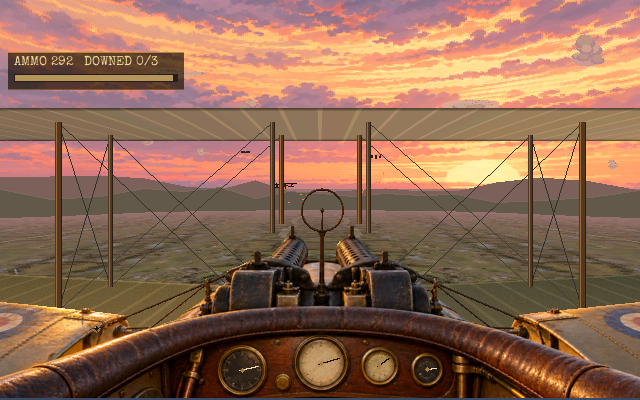
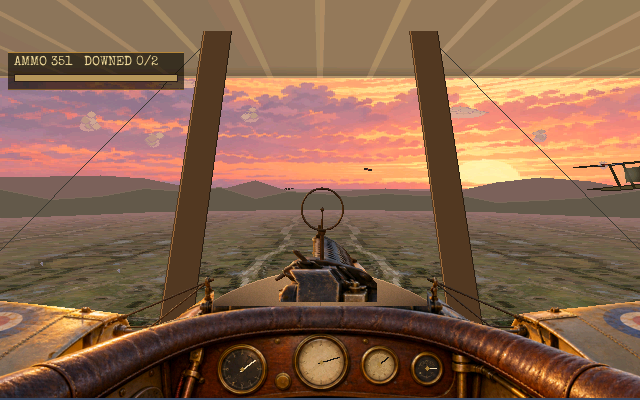
Point the README at 0.2.0 RC3 and describe what it adds
The release line links RC3; the features list covers the pilot's-eye
cockpit, the guns and machines of each year, the top-down raids, the
offence ladder, the bomb blast, the morning paper, the picture house and
the period typefaces; the controls mention the 1914 rifle and revolver,
jam clearing and turning for home; the credits point to the film and
font sources.  The cockpit screenshot is the new view from the pilot's
seat, captured on the Amiga.

diff --git a/README.md b/README.md
@@ -9,22 +9,37 @@ It grew out of the Sopwith porting work in
 [amigasdlsopwith](https://github.com/DalsinAI/amigasdlsopwith), but it is a new
 game: no SDL Sopwith code is used.
 
-Current release: **0.2.0 RC2**, a release candidate. Download it from
-[the v0.2.0-rc2 release](https://github.com/DalsinAI/canvasskies/releases/tag/v0.2.0-rc2).
-New since the alpha: a cinematic cockpit view, open-sky dogfights, a pilot's
-career with medals, the story as a war diary, the morning paper and Book of
-Press Cuttings, the Christmas truce, the airship and Gotha raids, and period
-gramophone records. The earlier alpha is described in
+Current release: **0.2.0 RC3**, a release candidate. Download it from
+[the v0.2.0-rc3 release](https://github.com/DalsinAI/canvasskies/releases/tag/v0.2.0-rc3).
+New in RC3: the cockpit seen from the pilot's seat, machines that change with
+the war, top-down raids on convoys, railways, aerodromes and trench lines,
+civilians and ambulances to spare on pain of court martial, the morning paper
+set like a real one, and a picture house showing real film of the war. The
+earlier alpha is described in
 [docs/ALPHA_RELEASE_NOTES.md](docs/ALPHA_RELEASE_NOTES.md).
 
 ## Features
 
-- Side-on, top-down, first-person dogfight and rear-gunner mission modes
-- Pilot's journal and General Headquarters briefing before every sortie
-- Six-axis dogfight flight model with stalls, damage and crashes
+- Side-on, top-down, cockpit dogfight and rear-gunner sorties
+- The cockpit from the pilot's seat: the top wing overhead, the struts beside
+  the gun, the world banking around the machine
+- Machines that change with the war, ours and theirs: a 1914 two-seater
+  armed with a rifle and revolver, a single-Vickers scout, a twin-gun scout
+  and a late-war scout, against the Fokker monoplane, the Albatros and the
+  late Fokker
+- Top-down raids built from the war's targets: lorry convoys, trains and
+  stations, aerodromes, depots and trench runs, mixed to suit each year
+- Ambulances, villages and our own line to spare: a reprimand, a lost rank,
+  then a court martial that ends the career
+- Bombs that burst too close hurt your own machine
+- Pilot's diary and General Headquarters orders before every sortie, and a
+  career of victories, promotion and medals
+- The morning paper on its tied bundle, quoting real cable news of
+  1914-1918, and the Book of Press Cuttings
+- The picture house behind the lines, showing real film of each year
 - Three-life campaign with field hospital recovery and a graveside memorial
 - Resumable campaign saves
-- Period fonts, painted art and gramophone-style music
+- Period typefaces, painted art and period gramophone records
 - F9 toggles aspect-correct fullscreen
 
 ## Screenshots
@@ -39,7 +54,7 @@ game's own 640x400.
 | ![The morning paper](docs/screenshots/newspaper.png) | ![The picture house](docs/screenshots/picture-house.png) |
 | The morning paper on its bundle | The picture house behind the lines, showing real film of 1916 |
 | ![Cockpit dogfight](docs/screenshots/cockpit-dogfight.png) | ![New machines](docs/screenshots/new-machines.png) |
-| A 1918 patrol from the cockpit | New machines from the aircraft park |
+| A 1916 patrol from the pilot's seat, one Vickers under the sight | New machines from the aircraft park |
 | ![Top-down sortie](docs/screenshots/top-down-sortie.png) | ![Side-on sortie](docs/screenshots/side-on-sortie.png) |
 | A top-down raid on a convoy and its depot | A side-on sortie at dusk |
 | ![Court martial](docs/screenshots/court-martial.png) | |
@@ -75,8 +90,8 @@ the assets the game loads, without the source PNGs.
 | Context | Controls |
 |---|---|
 | Menus | Up/Down select, Enter accepts, Escape returns |
-| Side/top-down | Arrow keys move, X/Z adjust speed, Space fires, B bombs |
-| Pilot dogfight | Left/Right bank, Down pulls up, Up pushes down, X/Z throttle, Space fires |
+| Side/top-down | Arrow keys move, X/Z adjust speed, Space fires (a rifle in 1914), B bombs |
+| Pilot dogfight | Left/Right bank, Down pulls up, Up pushes down, X/Z throttle, Space fires (a revolver in 1914), R clears a jam, H turns for home |
 | Rear gunner | Arrow keys traverse/elevate, Space fires |
 | Display | F9 toggles fullscreen |
 
@@ -91,17 +106,18 @@ the assets the game loads, without the source PNGs.
 ## Licence
 
 Canvas Skies is free software under the
-[GNU General Public License, version 3](LICENSE). Music, font and art
+[GNU General Public License, version 3](LICENSE). Music, font, film and art
 licences are listed below.
 
 ## Credits
 
 Designed, tested and delivered by The AmiCradle Team.
 
-Music, font and art credits are in
+Music, font, film and art credits are in
 [assets/canvas-skies/MUSIC_LICENSE.md](assets/canvas-skies/MUSIC_LICENSE.md),
-[assets/canvas-skies/ART_PROVENANCE.md](assets/canvas-skies/ART_PROVENANCE.md)
-and the font copyright files in `assets/canvas-skies/`.
+[assets/canvas-skies/ART_PROVENANCE.md](assets/canvas-skies/ART_PROVENANCE.md),
+[CANVAS_SKIES_SOURCES.md](CANVAS_SKIES_SOURCES.md) (the newsreels and
+typefaces) and the font licences in `assets/fonts/`.
 
 Neddy Seagoon, Eccles, Bluebottle and Gridpipe Thyne are an affectionate nod
 to *The Goon Show*.
